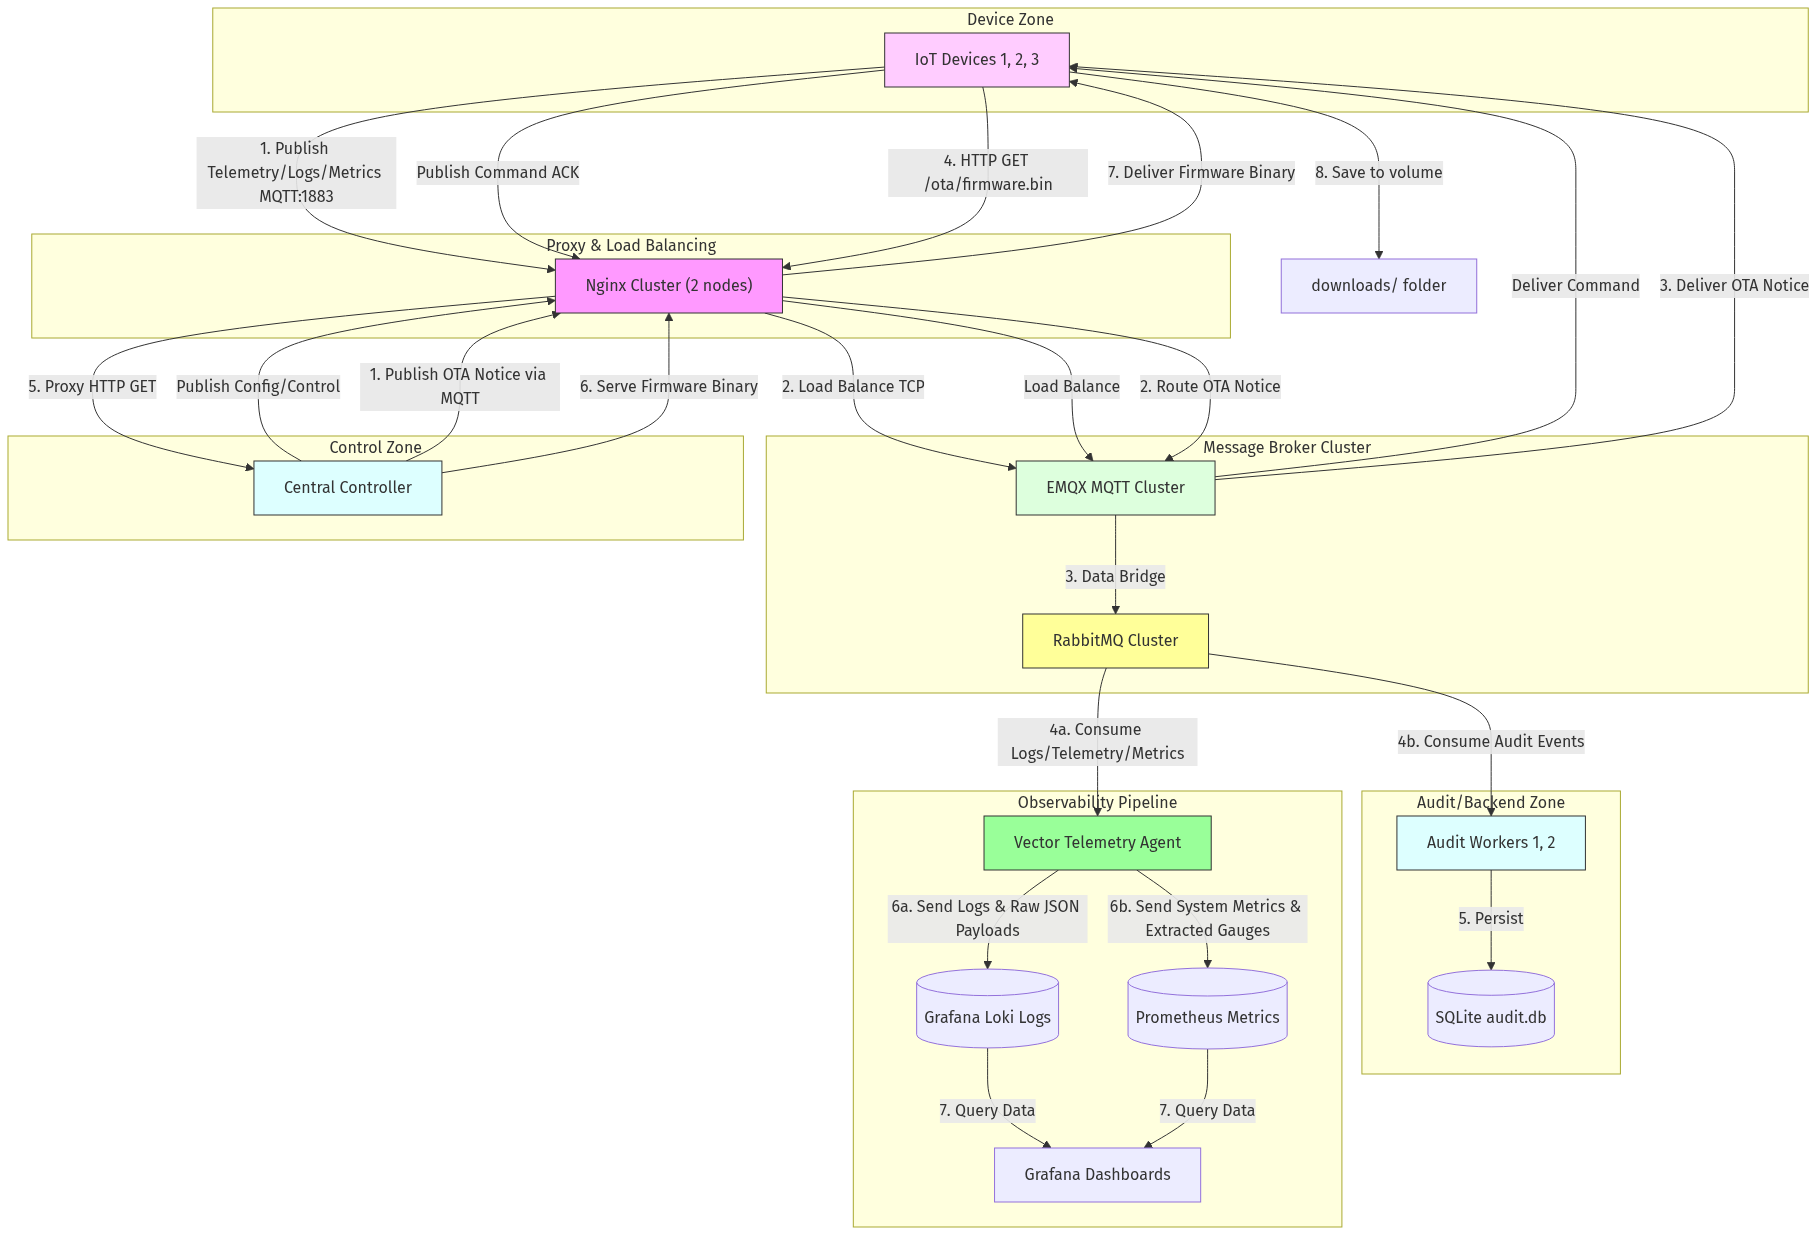
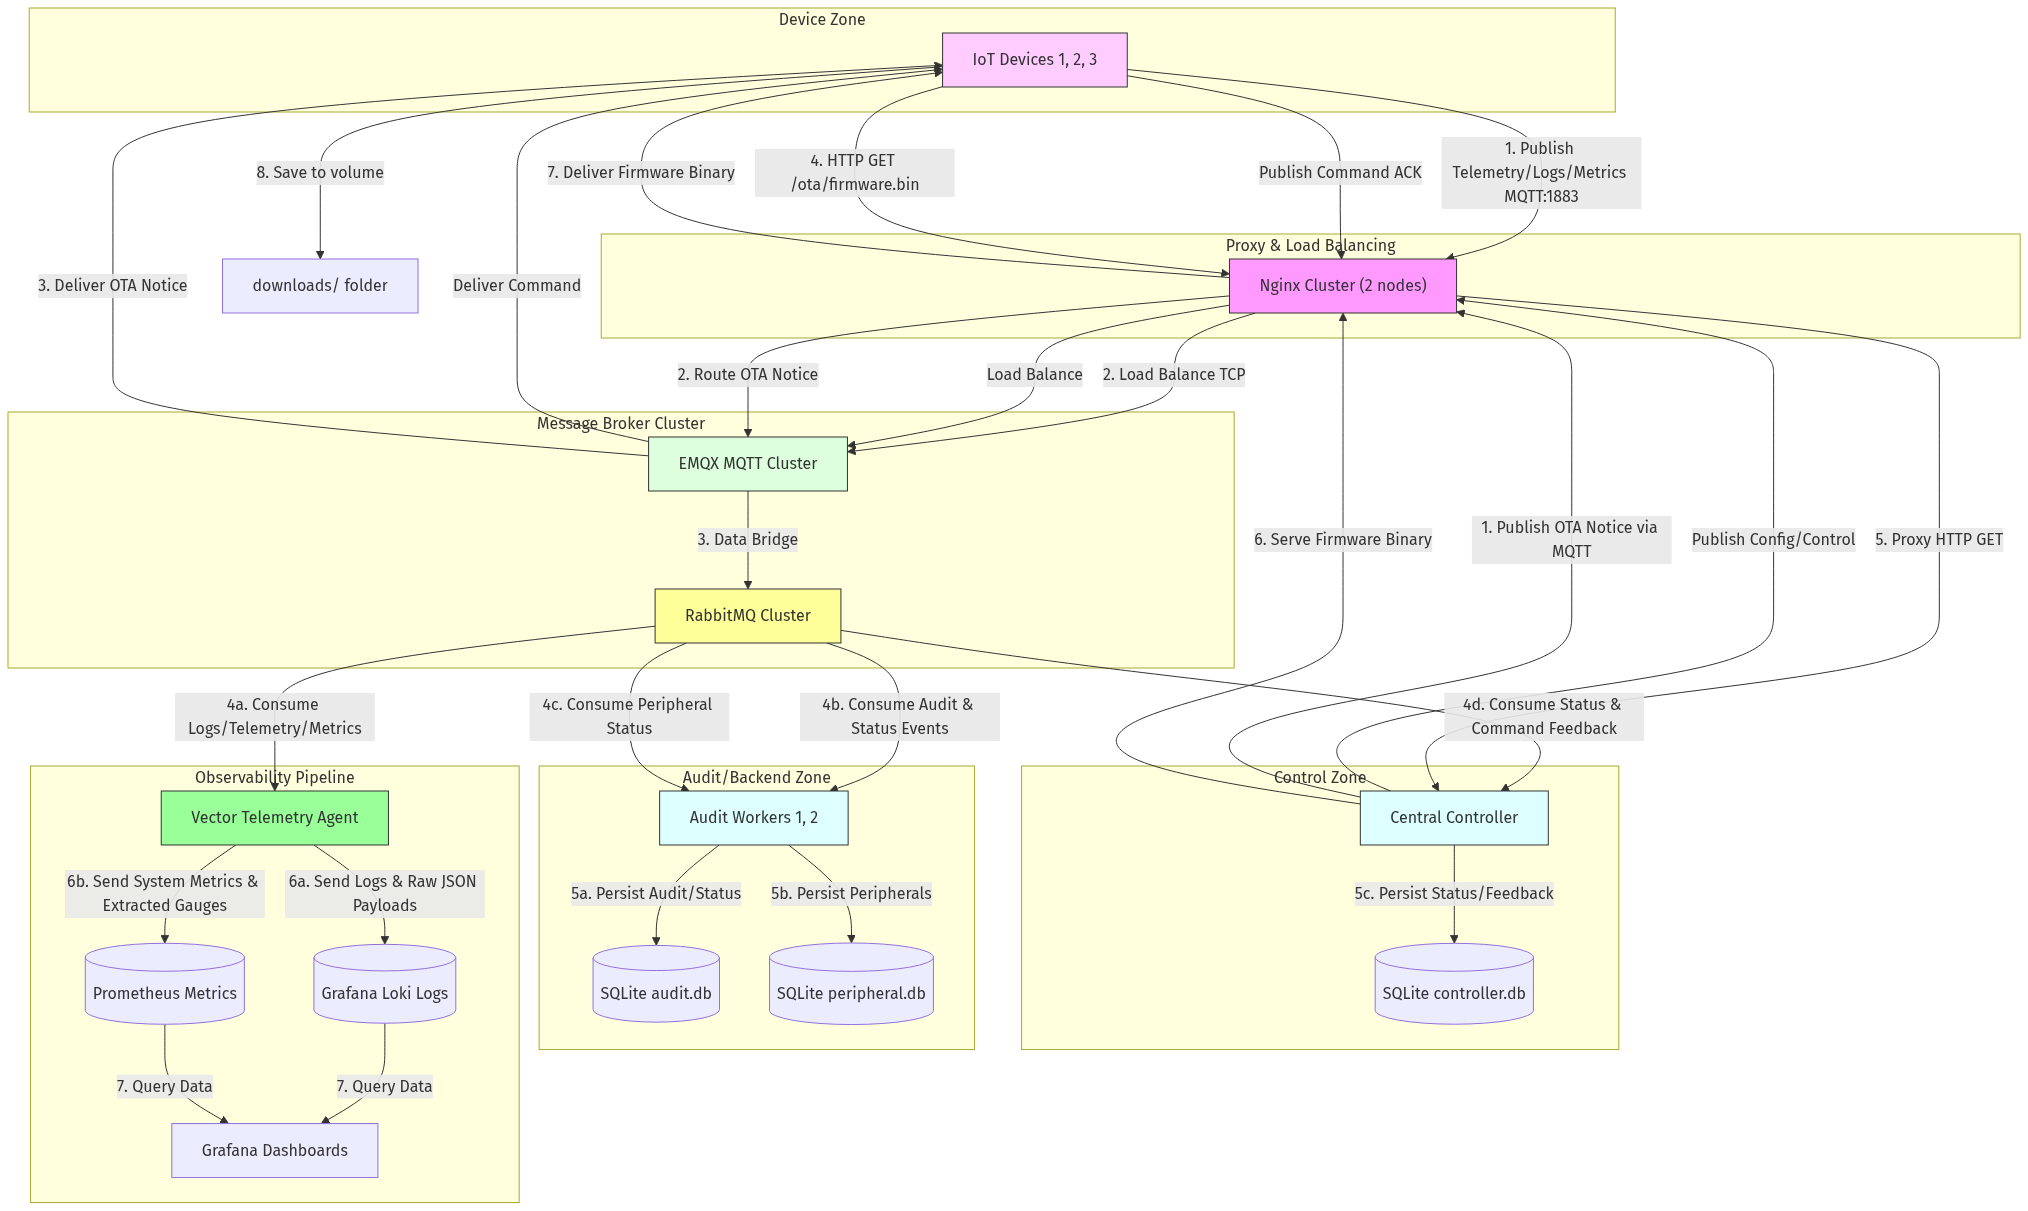
update implementation

diff --git a/docs/generate_diagrams.py b/docs/generate_diagrams.py
@@ -7,7 +7,7 @@ graph TD
         Port3000["Port 3000 (Grafana UI)"]
         Port18083["Port 18083 (nginx1 EMQX Dashboard)"]
         Port18084["Port 18084 (nginx2 EMQX Dashboard)"]
-        VolAudit[("Volume: ./data/audit.db")]
+        VolData[("Volume: ./data/ (SQLite databases)")]
         VolDownloads[("Volume: ./downloads/")]
     end
 
@@ -62,6 +62,7 @@ graph TD
     EMQX1 & EMQX2 <-->|mqtt_network| RabbitMQ1 & RabbitMQ2 & RabbitMQ3
     RabbitMQ1 & RabbitMQ2 & RabbitMQ3 <-->|audit_network| Worker1 & Worker2
     RabbitMQ1 & RabbitMQ2 & RabbitMQ3 <-->|audit_network| Vector
+    RabbitMQ1 & RabbitMQ2 & RabbitMQ3 <-->|audit_network| Controller
 
     %% Network Connections for Vector
     Vector <-->|observability_network| Loki & Prometheus
@@ -73,7 +74,8 @@ graph TD
     Port3000 <--> Grafana
     Port18083 <--> Nginx1
     Port18084 <--> Nginx2
-    Worker1 & Worker2 -->|Mount| VolAudit
+    Worker1 & Worker2 -->|Mount| VolData
+    Controller -->|Mount| VolData
     Device1 & Device2 & Device3 -->|Mount| VolDownloads
 
     style Nginx1 fill:#f9f,stroke:#333
@@ -103,11 +105,13 @@ graph TD
 
     subgraph ControlZone ["Control Zone"]
         Controller["Central Controller"]
+        ControllerDB[("SQLite controller.db")]
     end
 
     subgraph AuditZone ["Audit/Backend Zone"]
         Worker["Audit Workers 1, 2"]
-        DB[("SQLite audit.db")]
+        AuditDB[("SQLite audit.db")]
+        PeripheralDB[("SQLite peripheral.db")]
     end
 
     subgraph ObsPipeline ["Observability Pipeline"]
@@ -122,8 +126,12 @@ graph TD
     Nginx -->|2. Load Balance TCP| EMQX
     EMQX -->|3. Data Bridge| Rabbit
     Rabbit -->|4a. Consume Logs/Telemetry/Metrics| Vector
-    Rabbit -->|4b. Consume Audit Events| Worker
-    Worker -->|5. Persist| DB
+    Rabbit -->|4b. Consume Audit & Status Events| Worker
+    Rabbit -->|4c. Consume Peripheral Status| Worker
+    Rabbit -->|4d. Consume Status & Command Feedback| Controller
+    Worker -->|5a. Persist Audit/Status| AuditDB
+    Worker -->|5b. Persist Peripherals| PeripheralDB
+    Controller -->|5c. Persist Status/Feedback| ControllerDB
 
     %% Vector Routing
     Vector -->|6a. Send Logs & Raw JSON Payloads| Loki

diff --git a/docs/implementation_plan.md b/docs/implementation_plan.md
@@ -60,7 +60,7 @@ graph TD
         Port3000["Port 3000 (Grafana UI)"]
         Port18083["Port 18083 (nginx1 EMQX Dashboard)"]
         Port18084["Port 18084 (nginx2 EMQX Dashboard)"]
-        VolAudit[("Volume: ./data/audit.db")]
+        VolData[("Volume: ./data/ (SQLite databases)")]
         VolDownloads[("Volume: ./downloads/")]
     end
 
@@ -115,6 +115,7 @@ graph TD
     EMQX1 & EMQX2 <-->|mqtt_network| RabbitMQ1 & RabbitMQ2 & RabbitMQ3
     RabbitMQ1 & RabbitMQ2 & RabbitMQ3 <-->|audit_network| Worker1 & Worker2
     RabbitMQ1 & RabbitMQ2 & RabbitMQ3 <-->|audit_network| Vector
+    RabbitMQ1 & RabbitMQ2 & RabbitMQ3 <-->|audit_network| Controller
 
     %% Network Connections for Vector
     Vector <-->|observability_network| Loki & Prometheus
@@ -126,7 +127,8 @@ graph TD
     Port3000 <--> Grafana
     Port18083 <--> Nginx1
     Port18084 <--> Nginx2
-    Worker1 & Worker2 -->|Mount| VolAudit
+    Worker1 & Worker2 -->|Mount| VolData
+    Controller -->|Mount| VolData
     Device1 & Device2 & Device3 -->|Mount| VolDownloads
 
     style Nginx1 fill:#f9f,stroke:#333
@@ -156,11 +158,13 @@ graph TD
 
     subgraph ControlZone ["Control Zone"]
         Controller["Central Controller"]
+        ControllerDB[("SQLite controller.db")]
     end
 
     subgraph AuditZone ["Audit/Backend Zone"]
         Worker["Audit Workers 1, 2"]
-        DB[("SQLite audit.db")]
+        AuditDB[("SQLite audit.db")]
+        PeripheralDB[("SQLite peripheral.db")]
     end
 
     subgraph ObsPipeline ["Observability Pipeline"]
@@ -175,8 +179,12 @@ graph TD
     Nginx -->|2. Load Balance TCP| EMQX
     EMQX -->|3. Data Bridge| Rabbit
     Rabbit -->|4a. Consume Logs/Telemetry/Metrics| Vector
-    Rabbit -->|4b. Consume Audit Events| Worker
-    Worker -->|5. Persist| DB
+    Rabbit -->|4b. Consume Audit & Status Events| Worker
+    Rabbit -->|4c. Consume Peripheral Status| Worker
+    Rabbit -->|4d. Consume Status & Command Feedback| Controller
+    Worker -->|5a. Persist Audit/Status| AuditDB
+    Worker -->|5b. Persist Peripherals| PeripheralDB
+    Controller -->|5c. Persist Status/Feedback| ControllerDB
 
     %% Vector Routing
     Vector -->|6a. Send Logs & Raw JSON Payloads| Loki
@@ -222,15 +230,15 @@ Following the format: `ProjectPrefix/Organization/DeviceID/FeatureCategory/Direc
 
 - **Topic**: `mqttsystem/org1/{DeviceId}/status/up` (QoS 1, Retained, Birth & LWT)
 
-### 2. Real-Time Data (实时Log/Telemetry/Metric) — QoS 0
+### 2. Real-Time Data (Real-time Log/Telemetry/Metric) — QoS 0
 
 - **Logs / Telemetry / Metrics**: topics as designed previously.
 
-### 3. Hardware Peripherals (硬件外设状态) — QoS 1
+### 3. Hardware Peripherals (Hardware Status) — QoS 1
 
 - **Topic**: `mqttsystem/org1/{DeviceId}/peripheral/up` (QoS 1)
 
-### 4. Audit Logs (审计日志) — QoS 1
+### 4. Audit Logs — QoS 1
 
 - **Topic**: `mqttsystem/org1/{DeviceId}/audit/up` (QoS 1)
 